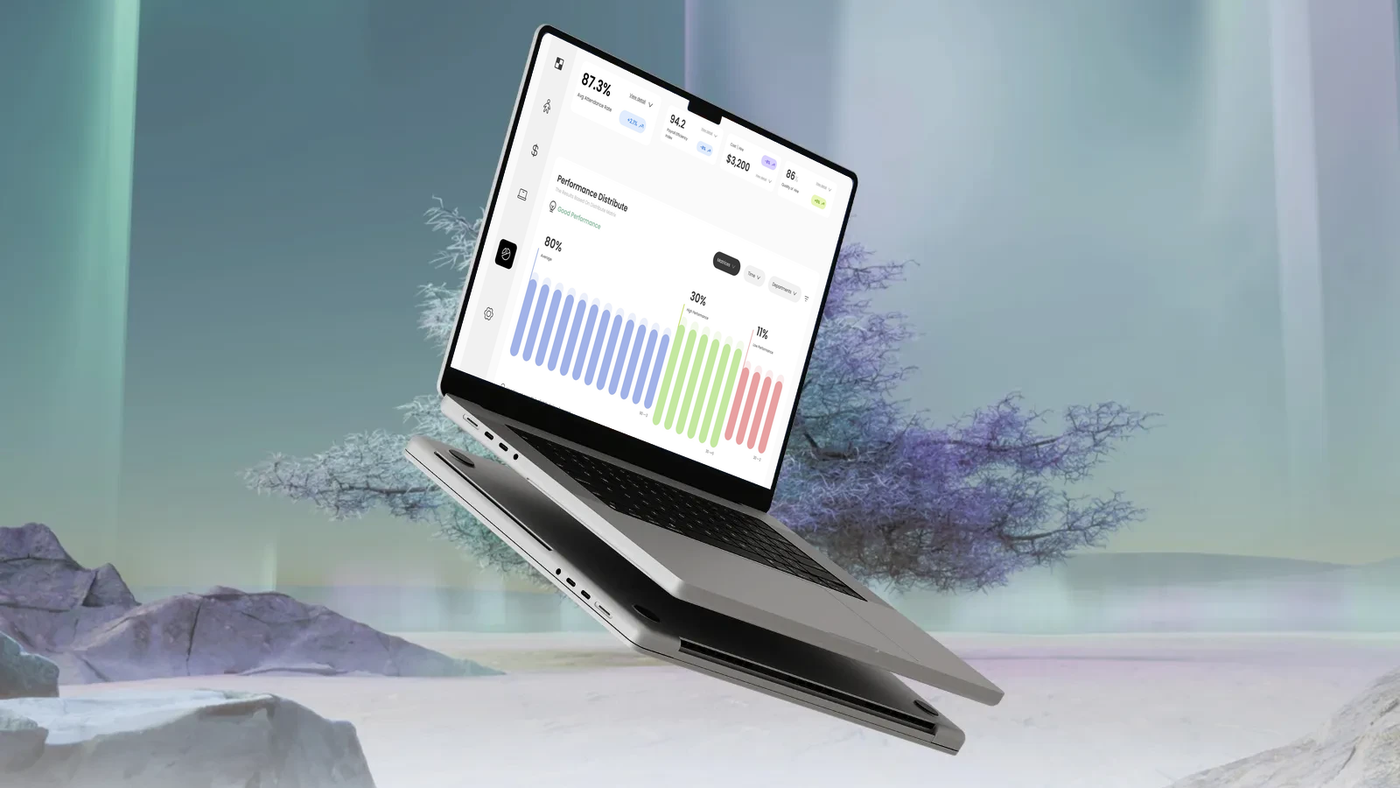
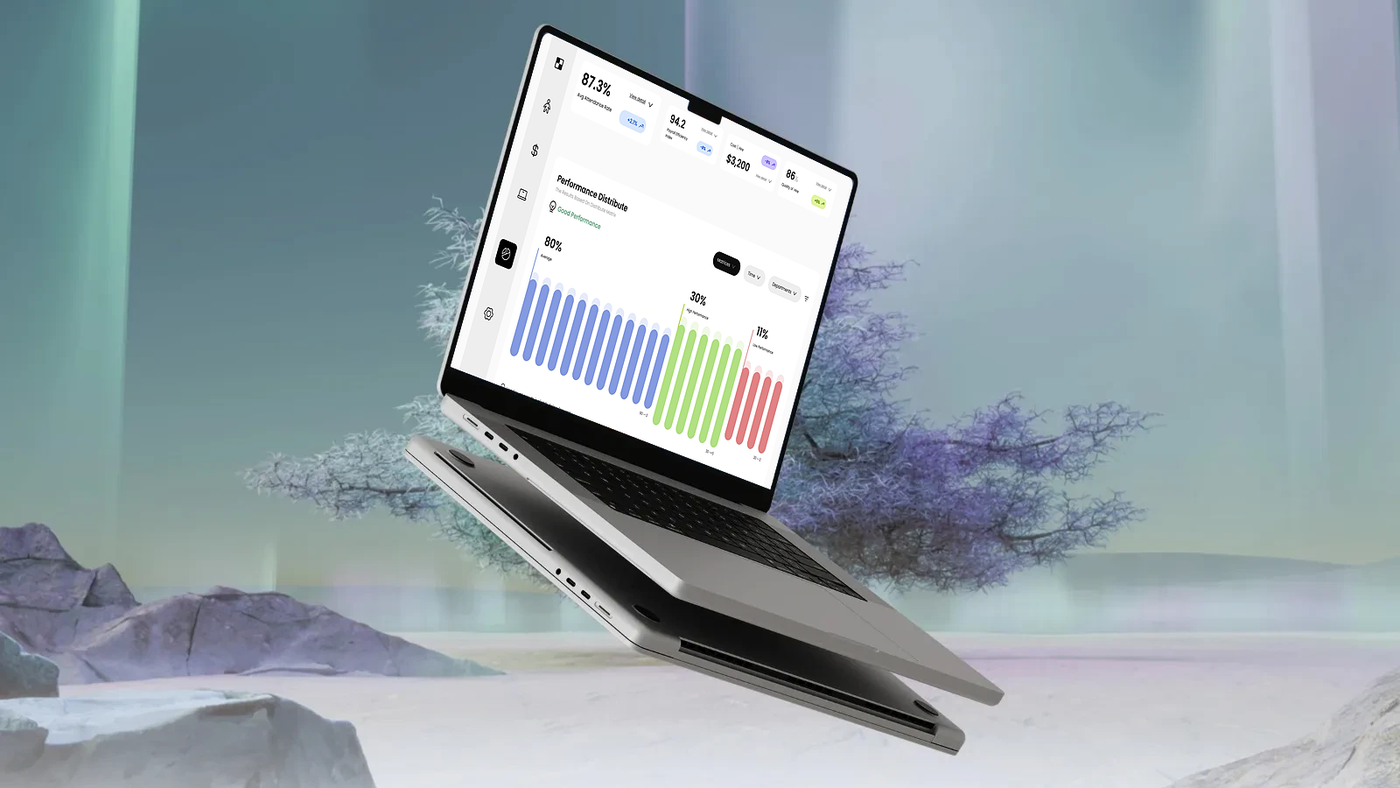
Floating laptop: high-quality screen (deeper UI tones, contrast, sharpening) and crisper scene; drop the dark grade
Claude-Session: https://claude.ai/code/session_01FdYAnoP1AuAPuCnLWf7gdc

diff --git a/behance-cover/mockups/set15q.py b/behance-cover/mockups/set15q.py
@@ -2,7 +2,7 @@
 # line-fitted (<1 px); the camera notch and rounded top corners are drawn in screen space and warped.
 # Cover 1616x1264 (+808), Behance artboard 1400x788 (+2x), Upwork 4:3 1000x750 (+2x, JPEG).
 import numpy as np
-from PIL import Image, ImageDraw
+from PIL import Image, ImageDraw, ImageEnhance, ImageFilter
 I = '/tmp/claude-0/-home-user-claude-Ai-website-1/fd49522e-f0ff-52ed-b6c7-08cca43cc4fd/images/'
 Q = [(621.9, 195.1), (976.6, 365.2), (880.4, 719.2), (514.4, 578.9)]
 R = 1.547
@@ -13,21 +13,13 @@ def coeffs(dst, pts):
         A += [[x, y, 1, 0, 0, 0, -u * x, -u * y], [0, 0, 0, x, y, 1, -v * x, -v * y]]; B += [u, v]
     return np.linalg.solve(np.array(A, float), np.array(B, float))
 base = Image.open(I + '172.webp').convert('RGB')
-def grade(im):
-    # moody night grade for the scene only (the screen stays at full brightness, so it glows):
-    # lower exposure with a filmic curve, deeper teal-violet shadows, richer colour, soft vignette
-    a = np.asarray(im).astype(np.float32) / 255
-    a = a ** 1.9 * 0.78                                               # darker, more contrast in mids
-    lum = a.mean(-1, keepdims=True); a = lum + (a - lum) * 1.25       # saturation
-    a = a * np.array([0.90, 0.98, 1.06])                              # cool teal-violet cast
-    H, W = a.shape[:2]; yy, xx = np.mgrid[:H, :W]
-    r = np.hypot((xx - W * 0.5) / (W * 0.62), (yy - H * 0.42) / (H * 0.62))
-    a *= np.clip(1.05 - 0.55 * r ** 2, 0.35, 1)[..., None]            # vignette, centre on the laptop
-    return Image.fromarray((a.clip(0, 1) * 255).round().astype(np.uint8))
-base = grade(base)
 for scr, (df, top) in SCREENS.items():
     d = Image.open(I + df).convert('RGB'); bh = round(d.width / R)
     src = d.crop((0, top, d.width, top + bh)).resize((round(2400 * R), 2400), Image.LANCZOS)
+    # screen in high quality: deeper text and greys (gamma), a little more contrast, so the UI reads
+    # crisp and dark on the display instead of washed out
+    src = src.point(lambda v: round(255 * (v / 255) ** 1.25))
+    src = ImageEnhance.Contrast(src).enhance(1.12)
     sm = Image.new('L', src.size, 0); dd = ImageDraw.Draw(sm)
     dd.rounded_rectangle((0, 0, src.width - 1, src.height - 1), 70, fill=255); dd.rectangle((0, src.height // 2, src.width, src.height), fill=255)
     nw = 392 / 3713 * src.width; cx = src.width / 2
@@ -35,19 +27,21 @@ for scr, (df, top) in SCREENS.items():
     for K in (1, 2):
         SS = 3 if K == 1 else 2
         scene = base.resize((base.width * K, base.height * K), Image.LANCZOS) if K > 1 else base.copy(); W, H = scene.size
+        if K > 1: scene = scene.filter(ImageFilter.UnsharpMask(radius=1.6, percent=55, threshold=2))   # crisper enlarged scene
         qs = [(x * K * SS, y * K * SS) for x, y in Q]
         c = coeffs(qs, [(0, 0), (src.width, 0), (src.width, src.height), (0, src.height)])
         warped = src.transform((W * SS, H * SS), Image.PERSPECTIVE, tuple(c), Image.BICUBIC).resize((W, H), Image.LANCZOS)
         m = sm.transform((W * SS, H * SS), Image.PERSPECTIVE, tuple(c), Image.BICUBIC, fillcolor=0).resize((W, H), Image.LANCZOS)
+        warped = warped.filter(ImageFilter.UnsharpMask(radius=0.9 * K, percent=80, threshold=1))   # sharp UI edges after the warp
         out = Image.composite(warped, scene, m)
         if K == 1:
             cw = round(H * 808 / 632); x0 = (W - cw) // 2
             o = out.crop((x0, 0, x0 + cw, H)).resize((1616, 1264), Image.LANCZOS)
-            o.save(f's15-floatdark-{scr}.png'); o.resize((808, 632), Image.LANCZOS).save(f's15-floatdark-{scr}-808.png')
-            out.resize((1000, 750), Image.LANCZOS).save(f'uw-floatdark-{scr}-1000.jpg', quality=97, subsampling=0)
+            o.save(f's15-floathq-{scr}.png'); o.resize((808, 632), Image.LANCZOS).save(f's15-floathq-{scr}-808.png')
+            out.resize((1000, 750), Image.LANCZOS).save(f'uw-floathq-{scr}-1000.jpg', quality=97, subsampling=0)
         else:
-            out.resize((2000, 1500), Image.LANCZOS).save(f'uw-floatdark-{scr}-2000.jpg', quality=97, subsampling=0)
+            out.resize((2000, 1500), Image.LANCZOS).save(f'uw-floathq-{scr}-2000.jpg', quality=97, subsampling=0)
         y0 = 160 * K   # 16:9 window (1600 x 900) around the laptop
         a = out.crop((0, y0, W, y0 + 900 * K))
-        a.resize((2800, 1576) if K == 2 else (1400, 788), Image.LANCZOS).save(f'ab-floatdark-{scr}-{2800 if K == 2 else 1400}.png')
+        a.resize((2800, 1576) if K == 2 else (1400, 788), Image.LANCZOS).save(f'ab-floathq-{scr}-{2800 if K == 2 else 1400}.png')
     print('done', scr)
